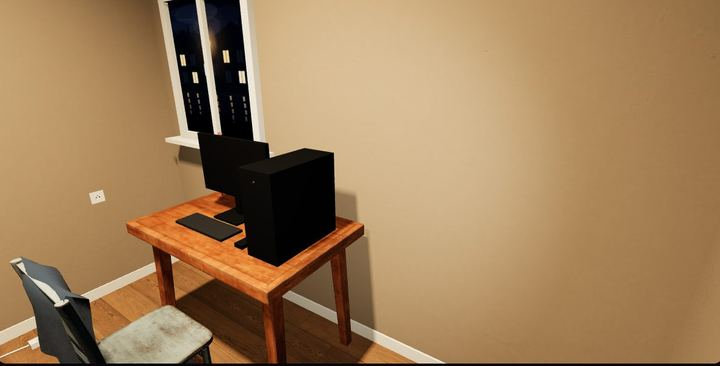
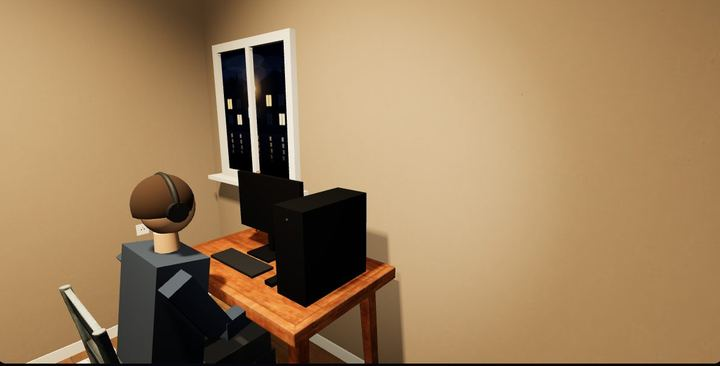
Atelier dépannage : les niveaux 4, 5 et 6 sont ouverts et indexables

Changed region(s): [[0.0, 0.0, 0.6111, 1.0]]

diff --git a/atelier-depannage.html b/atelier-depannage.html
@@ -59,36 +59,36 @@
           <p class="depannage-apprend"><b>Tu apprends</b> à suivre un circuit sans plan et à trouver une coupure : VAT, mesure de continuité, boîte de dérivation.</p>
           <span class="depannage-bouton">Commencer →</span>
         </div></a></li>
-      <li><div class="depannage ferme" aria-disabled="true">
-        <img src="assets/atelier/niveau4.jpg" alt="La chambre de Théo, dans le pavillon des Morel" width="720" height="366" loading="lazy">
+      <li><a class="depannage" href="atelier-3d-4.html">
+        <img src="assets/atelier/niveau4.jpg" alt="Théo à son bureau, dans le pavillon des Morel" width="720" height="366" loading="lazy">
         <div class="depannage-texte">
           <p class="depannage-niveau">Niveau 4 · Confirmé</p>
           <h2>Le disjoncteur saute tous les soirs</h2>
           <p class="depannage-client"><b>Les Morel</b> · un pavillon à étage, deux adolescents</p>
           <p>Le disjoncteur des chambres déclenche chaque soir, et le client veut « mettre plus gros ».</p>
-          <p class="depannage-apprend"><b>Tu apprendras</b> à distinguer une surcharge d'un court-circuit avec la pince ampèremétrique.</p>
-          <span class="depannage-bouton">Bientôt</span>
-        </div></div></li>
-      <li><div class="depannage ferme" aria-disabled="true">
-        <img src="assets/atelier/niveau5.jpg" alt="Le hall de l'immeuble et ses boîtes aux lettres" width="720" height="366" loading="lazy">
+          <p class="depannage-apprend"><b>Tu apprends</b> à distinguer une surcharge d'un court-circuit avec la pince ampèremétrique.</p>
+          <span class="depannage-bouton">Commencer →</span>
+        </div></a></li>
+      <li><a class="depannage" href="atelier-3d-5.html">
+        <img src="assets/atelier/niveau5.jpg" alt="Le hall de l'immeuble, l'escalier et la porte de la cave" width="720" height="366" loading="lazy">
         <div class="depannage-texte">
           <p class="depannage-niveau">Niveau 5 · Confirmé</p>
           <h2>La lumière de l'escalier ne s'éteint plus</h2>
           <p class="depannage-client"><b>Mme Costa, du syndic</b> · un immeuble de trois étages</p>
           <p>L'éclairage de la cage d'escalier reste allumé jour et nuit depuis le passage des peintres.</p>
-          <p class="depannage-apprend"><b>Tu apprendras</b> à dépanner une minuterie d'escalier et ses boutons-poussoirs.</p>
-          <span class="depannage-bouton">Bientôt</span>
-        </div></div></li>
-      <li><div class="depannage ferme" aria-disabled="true">
+          <p class="depannage-apprend"><b>Tu apprends</b> à dépanner une minuterie d'escalier et ses boutons-poussoirs.</p>
+          <span class="depannage-bouton">Commencer →</span>
+        </div></a></li>
+      <li><a class="depannage" href="atelier-3d-6.html">
         <img src="assets/atelier/niveau6.jpg" alt="Le couloir de la maison de M. Girard et ses spots neufs" width="720" height="366" loading="lazy">
         <div class="depannage-texte">
           <p class="depannage-niveau">Niveau 6 · Expert</p>
           <h2>Ça saute dès que j'allume le couloir</h2>
           <p class="depannage-client"><b>M. Girard</b> · une maison qu'il rénove lui-même</p>
           <p>Depuis la pose de spots dans le couloir, un différentiel déclenche, tantôt l'un, tantôt l'autre.</p>
-          <p class="depannage-apprend"><b>Tu apprendras</b> à trouver une erreur de câblage entre deux dispositifs différentiels.</p>
-          <span class="depannage-bouton">Bientôt</span>
-        </div></div></li>
+          <p class="depannage-apprend"><b>Tu apprends</b> à trouver une erreur de câblage entre deux dispositifs différentiels.</p>
+          <span class="depannage-bouton">Commencer →</span>
+        </div></a></li>
     </ol>
 
     <section class="depannages-aide">
@@ -96,6 +96,7 @@
       <ul>
         <li><b>Glisse</b> le doigt (ou la souris) pour tourner la tête, <b>touche</b> un objet pour t'en approcher ou agir dessus.</li>
         <li>Prends un appareil dans la caisse à outils, puis touche les deux points à mesurer.</li>
+        <li>Quand tu as trouvé la cause, tu la dis, puis tu prends le tournevis et tu vas réparer sur place.</li>
         <li>Le niveau 1 te guide étape par étape. À partir du niveau 2, tu cherches seul : la cause change à chaque partie, un carnet note ce que tu constates et un indice reste disponible.</li>
         <li>Les fautes de sécurité comptent : on coupe, puis on vérifie l'absence de tension avant de toucher.</li>
       </ul>

diff --git a/atelier-3d-6.html b/atelier-3d-6.html
@@ -3,8 +3,16 @@
 <head>
   <meta charset="UTF-8">
   <meta name="viewport" content="width=device-width, initial-scale=1.0, viewport-fit=cover">
-  <meta name="robots" content="noindex, nofollow">
-  <title>Atelier dépannage 3D, niveau 6 : ça saute dès que j'allume le couloir</title>
+  <title>Dépannage en 3D : deux différentiels qui sautent au couloir</title>
+  <meta name="description" content="Jeu de dépannage électrique en 3D, niveau 6 : dans une maison rénovée, un différentiel déclenche dès qu&#x27;on allume le couloir. Trouve l&#x27;erreur de câblage.">
+  <link rel="canonical" href="https://apprendre-electricite.fr/atelier-3d-6.html">
+  <meta property="og:type" content="website">
+  <meta property="og:site_name" content="ApprendreElec">
+  <meta property="og:title" content="Dépannage en 3D : deux différentiels qui sautent au couloir">
+  <meta property="og:description" content="Jeu de dépannage électrique en 3D, niveau 6 : dans une maison rénovée, un différentiel déclenche dès qu&#x27;on allume le couloir. Trouve l&#x27;erreur de câblage.">
+  <meta property="og:url" content="https://apprendre-electricite.fr/atelier-3d-6.html">
+  <meta property="og:image" content="https://apprendre-electricite.fr/assets/atelier/niveau6.jpg">
+  <meta name="twitter:card" content="summary_large_image">
   <meta name="theme-color" content="#05070c">
   <link rel="icon" type="image/svg+xml" href="assets/favicon.svg">
   <link rel="stylesheet" href="css/theme.css">
@@ -13,7 +21,13 @@
   <link rel="stylesheet" href="atelier/3d/niveau/niveau.css">
 </head>
 <body class="j-page">
-  <main id="jeu" aria-label="Atelier dépannage en 3D, niveau 6"></main>
+  <main id="jeu" aria-label="Atelier dépannage en 3D, niveau 6">
+    <div class="j-accueil"><p class="j-sur">Atelier dépannage · niveau 6</p><h1>Ça saute dès que j'allume le couloir</h1>
+    <p>Début d'après-midi, dans une maison que son propriétaire rénove lui-même. Depuis que M. Girard a posé des spots dans le couloir, un interrupteur différentiel déclenche dès qu'il allume : tantôt celui du haut, tantôt celui du bas, tantôt les deux.</p>
+    <p>Un collègue a déjà mesuré l'isolement : il est bon partout. À toi de comprendre pourquoi deux dispositifs différentiels de sensibilité 30 mA réagissent au même circuit. Tu ouvres les boîtes de dérivation, tu montes dans les combles, tu regardes le tableau de près, tu mesures la continuité. À la fin, tu dessines le schéma à M. Girard : la phase qui part par un différentiel, le neutre qui revient par l'autre. La cause change à chaque partie.</p>
+    <p>Comment on joue : glisse le doigt ou la souris pour tourner la tête, touche un objet pour t'en approcher ou agir dessus. Prends un appareil dans la caisse à outils, puis touche les deux points à mesurer. Quand tu as trouvé la cause, prends le tournevis et va réparer sur place. Les fautes de sécurité comptent : on coupe, puis on vérifie l'absence de tension avant de toucher une borne.</p>
+    <p>Le jeu se charge… S'il ne démarre pas, ton navigateur n'affiche peut-être pas la 3D : <a style="color:#9ec3ff" href="atelier-ancien.html">joue à la version simple</a> ou reviens à <a style="color:#9ec3ff" href="atelier-depannage.html">tous les dépannages</a>.</p></div>
+  </main>
   <script type="module">
     import { lancerNiveau } from "./atelier/3d/niveau/jeu.js";
     import N from "./atelier/3d/niveau/niveau6.js";

diff --git a/atelier-3d-5.html b/atelier-3d-5.html
@@ -3,8 +3,16 @@
 <head>
   <meta charset="UTF-8">
   <meta name="viewport" content="width=device-width, initial-scale=1.0, viewport-fit=cover">
-  <meta name="robots" content="noindex, nofollow">
-  <title>Atelier dépannage 3D, niveau 5 : la lumière de l'escalier ne s'éteint plus</title>
+  <title>Dépannage en 3D : la minuterie d&#x27;escalier ne s&#x27;éteint plus</title>
+  <meta name="description" content="Jeu de dépannage électrique en 3D, niveau 5 : dans un immeuble, l&#x27;éclairage de l&#x27;escalier reste allumé. Minuterie, boutons-poussoirs : trouve la cause.">
+  <link rel="canonical" href="https://apprendre-electricite.fr/atelier-3d-5.html">
+  <meta property="og:type" content="website">
+  <meta property="og:site_name" content="ApprendreElec">
+  <meta property="og:title" content="Dépannage en 3D : la minuterie d&#x27;escalier ne s&#x27;éteint plus">
+  <meta property="og:description" content="Jeu de dépannage électrique en 3D, niveau 5 : dans un immeuble, l&#x27;éclairage de l&#x27;escalier reste allumé. Minuterie, boutons-poussoirs : trouve la cause.">
+  <meta property="og:url" content="https://apprendre-electricite.fr/atelier-3d-5.html">
+  <meta property="og:image" content="https://apprendre-electricite.fr/assets/atelier/niveau5.jpg">
+  <meta name="twitter:card" content="summary_large_image">
   <meta name="theme-color" content="#05070c">
   <link rel="icon" type="image/svg+xml" href="assets/favicon.svg">
   <link rel="stylesheet" href="css/theme.css">
@@ -13,7 +21,13 @@
   <link rel="stylesheet" href="atelier/3d/niveau/niveau.css">
 </head>
 <body class="j-page">
-  <main id="jeu" aria-label="Atelier dépannage en 3D, niveau 5"></main>
+  <main id="jeu" aria-label="Atelier dépannage en 3D, niveau 5">
+    <div class="j-accueil"><p class="j-sur">Atelier dépannage · niveau 5</p><h1>La lumière de l'escalier ne s'éteint plus</h1>
+    <p>Dix heures du matin, un petit immeuble de trois étages sans ascenseur. Dans la cage d'escalier, fraîchement repeinte, toutes les lampes restent allumées jour et nuit. Mme Costa, du syndic, t'ouvre le local technique.</p>
+    <p>Tu montes l'escalier marche après marche, du hall au troisième étage. Sur chaque palier : un bouton-poussoir à voyant, un hublot, une boîte de dérivation. Au local technique : le tableau des parties communes, la minuterie et son schéma. Tu sépares la commande (les boutons et le fil blanc) de la puissance (le contact et le fil orange), tu cherches par moitiés, étage par étage, sans tout démonter. La cause change à chaque partie.</p>
+    <p>Comment on joue : glisse le doigt ou la souris pour tourner la tête, touche un objet pour t'en approcher ou agir dessus. Prends un appareil dans la caisse à outils, puis touche les deux points à mesurer. Quand tu as trouvé la cause, prends le tournevis et va réparer sur place. Les fautes de sécurité comptent : on coupe, puis on vérifie l'absence de tension avant de toucher une borne.</p>
+    <p>Le jeu se charge… S'il ne démarre pas, ton navigateur n'affiche peut-être pas la 3D : <a style="color:#9ec3ff" href="atelier-ancien.html">joue à la version simple</a> ou reviens à <a style="color:#9ec3ff" href="atelier-depannage.html">tous les dépannages</a>.</p></div>
+  </main>
   <script type="module">
     import { lancerNiveau } from "./atelier/3d/niveau/jeu.js";
     import N from "./atelier/3d/niveau/niveau5.js";

diff --git a/atelier-3d-4.html b/atelier-3d-4.html
@@ -3,8 +3,16 @@
 <head>
   <meta charset="UTF-8">
   <meta name="viewport" content="width=device-width, initial-scale=1.0, viewport-fit=cover">
-  <meta name="robots" content="noindex, nofollow">
-  <title>Atelier dépannage 3D, niveau 4 : le disjoncteur saute tous les soirs</title>
+  <title>Dépannage en 3D : le disjoncteur qui saute tous les soirs</title>
+  <meta name="description" content="Jeu de dépannage électrique en 3D, niveau 4 : chez les Morel, le disjoncteur des chambres saute chaque soir. Surcharge ou court-circuit ? Mesure à la pince">
+  <link rel="canonical" href="https://apprendre-electricite.fr/atelier-3d-4.html">
+  <meta property="og:type" content="website">
+  <meta property="og:site_name" content="ApprendreElec">
+  <meta property="og:title" content="Dépannage en 3D : le disjoncteur qui saute tous les soirs">
+  <meta property="og:description" content="Jeu de dépannage électrique en 3D, niveau 4 : chez les Morel, le disjoncteur des chambres saute chaque soir. Surcharge ou court-circuit ? Mesure à la pince">
+  <meta property="og:url" content="https://apprendre-electricite.fr/atelier-3d-4.html">
+  <meta property="og:image" content="https://apprendre-electricite.fr/assets/atelier/niveau4.jpg">
+  <meta name="twitter:card" content="summary_large_image">
   <meta name="theme-color" content="#05070c">
   <link rel="icon" type="image/svg+xml" href="assets/favicon.svg">
   <link rel="stylesheet" href="css/theme.css">
@@ -13,7 +21,13 @@
   <link rel="stylesheet" href="atelier/3d/niveau/niveau.css">
 </head>
 <body class="j-page">
-  <main id="jeu" aria-label="Atelier dépannage en 3D, niveau 4"></main>
+  <main id="jeu" aria-label="Atelier dépannage en 3D, niveau 4">
+    <div class="j-accueil"><p class="j-sur">Atelier dépannage · niveau 4</p><h1>Le disjoncteur saute tous les soirs</h1>
+    <p>Un soir d'hiver, 19 h 30. M. Morel t'attend dans son garage, devant le tableau : le disjoncteur des chambres saute tous les soirs, et il a déjà son idée. Il veut que tu en poses « un plus gros ».</p>
+    <p>Tu visites le pavillon : le garage, l'entrée, le séjour, la cuisine, puis l'étage par l'escalier, où Théo et Léa sont dans leur chambre. Tu lis la plaque des appareils, tu reproduis la soirée et tu mesures le courant à la pince ampèremétrique, à la sortie du disjoncteur. Surcharge, borne desserrée qui chauffe, court-circuit ou mauvais calibre : la cause change à chaque partie. Et tu expliques au client pourquoi le calibre d'un disjoncteur se choisit d'après la section des conducteurs.</p>
+    <p>Comment on joue : glisse le doigt ou la souris pour tourner la tête, touche un objet pour t'en approcher ou agir dessus. Prends un appareil dans la caisse à outils, puis touche les deux points à mesurer. Quand tu as trouvé la cause, prends le tournevis et va réparer sur place. Les fautes de sécurité comptent : on coupe, puis on vérifie l'absence de tension avant de toucher une borne.</p>
+    <p>Le jeu se charge… S'il ne démarre pas, ton navigateur n'affiche peut-être pas la 3D : <a style="color:#9ec3ff" href="atelier-ancien.html">joue à la version simple</a> ou reviens à <a style="color:#9ec3ff" href="atelier-depannage.html">tous les dépannages</a>.</p></div>
+  </main>
   <script type="module">
     import { lancerNiveau } from "./atelier/3d/niveau/jeu.js";
     import N from "./atelier/3d/niveau/niveau4.js";

diff --git a/cours/18-telerupteur-et-minuterie.html b/cours/18-telerupteur-et-minuterie.html
@@ -110,7 +110,7 @@
       </div>
     </section>
     <p class="module-bravo" hidden><b>Module terminé.</b> Le suivant est débloqué.</p>
-    <section class="plus-loin"><h2>Pour aller plus loin</h2><ul><li><a href="atelier-schemas.html?m=tl">🔌 Câbler un télérupteur</a></li><li><a href="atelier-schemas.html?m=minuterie">🔌 Câbler une minuterie</a></li><li><a href="atelier-depannage.html">🔧 Atelier dépannage : cherche une panne en 3D</a></li><li><a href="qcm/18-telerupteur-et-minuterie.html">✅ Le QCM corrigé de ce cours</a></li><li><a href="fiches/18-telerupteur-et-minuterie.html">🖨 La fiche mémo de ce cours</a></li><li><a href="cours/17-va-et-vient-et-permutateur.html">📖 Module 17 : Va-et-vient et permutateur</a></li><li><a href="cours/19-eau-chaude-et-heures-creuses.html">📖 Module 19 : Eau chaude et heures creuses</a></li></ul></section>
+    <section class="plus-loin"><h2>Pour aller plus loin</h2><ul><li><a href="atelier-schemas.html?m=tl">🔌 Câbler un télérupteur</a></li><li><a href="atelier-schemas.html?m=minuterie">🔌 Câbler une minuterie</a></li><li><a href="atelier-3d-5.html">🔧 Dépannage en 3D : la minuterie de l'escalier ne s'éteint plus</a></li><li><a href="qcm/18-telerupteur-et-minuterie.html">✅ Le QCM corrigé de ce cours</a></li><li><a href="fiches/18-telerupteur-et-minuterie.html">🖨 La fiche mémo de ce cours</a></li><li><a href="cours/17-va-et-vient-et-permutateur.html">📖 Module 17 : Va-et-vient et permutateur</a></li><li><a href="cours/19-eau-chaude-et-heures-creuses.html">📖 Module 19 : Eau chaude et heures creuses</a></li></ul></section>
     <nav class="page-voisins"><a href="cours/17-va-et-vient-et-permutateur.html">← Va-et-vient et permutateur</a><a href="cours/19-eau-chaude-et-heures-creuses.html">Eau chaude et heures creuses →</a></nav>
   </main>
   <footer class="pied">

diff --git a/atelier/3d/niveaux.js b/atelier/3d/niveaux.js
@@ -6,9 +6,9 @@ export const NIVEAUX = [
   { n: 1, page: "atelier-3d.html", titre: "La lumière de la chambre", ouvert: true },
   { n: 2, page: "atelier-3d-2.html", titre: "Ça saute la nuit", ouvert: true },
   { n: 3, page: "atelier-3d-3.html", titre: "La moitié de l'appartement est morte", ouvert: true },
-  { n: 4, page: "atelier-3d-4.html", titre: "Le disjoncteur saute tous les soirs", ouvert: false },
-  { n: 5, page: "atelier-3d-5.html", titre: "La lumière de l'escalier ne s'éteint plus", ouvert: false },
-  { n: 6, page: "atelier-3d-6.html", titre: "Ça saute dès que j'allume le couloir", ouvert: false },
+  { n: 4, page: "atelier-3d-4.html", titre: "Le disjoncteur saute tous les soirs", ouvert: true },
+  { n: 5, page: "atelier-3d-5.html", titre: "La lumière de l'escalier ne s'éteint plus", ouvert: true },
+  { n: 6, page: "atelier-3d-6.html", titre: "Ça saute dès que j'allume le couloir", ouvert: true },
 ];
 export const suivant = (n) => NIVEAUX.find((x) => x.n > n && x.ouvert) || null;
 // Les deux liens de fin de partie : le niveau suivant ouvert, puis la page d'entrée.
